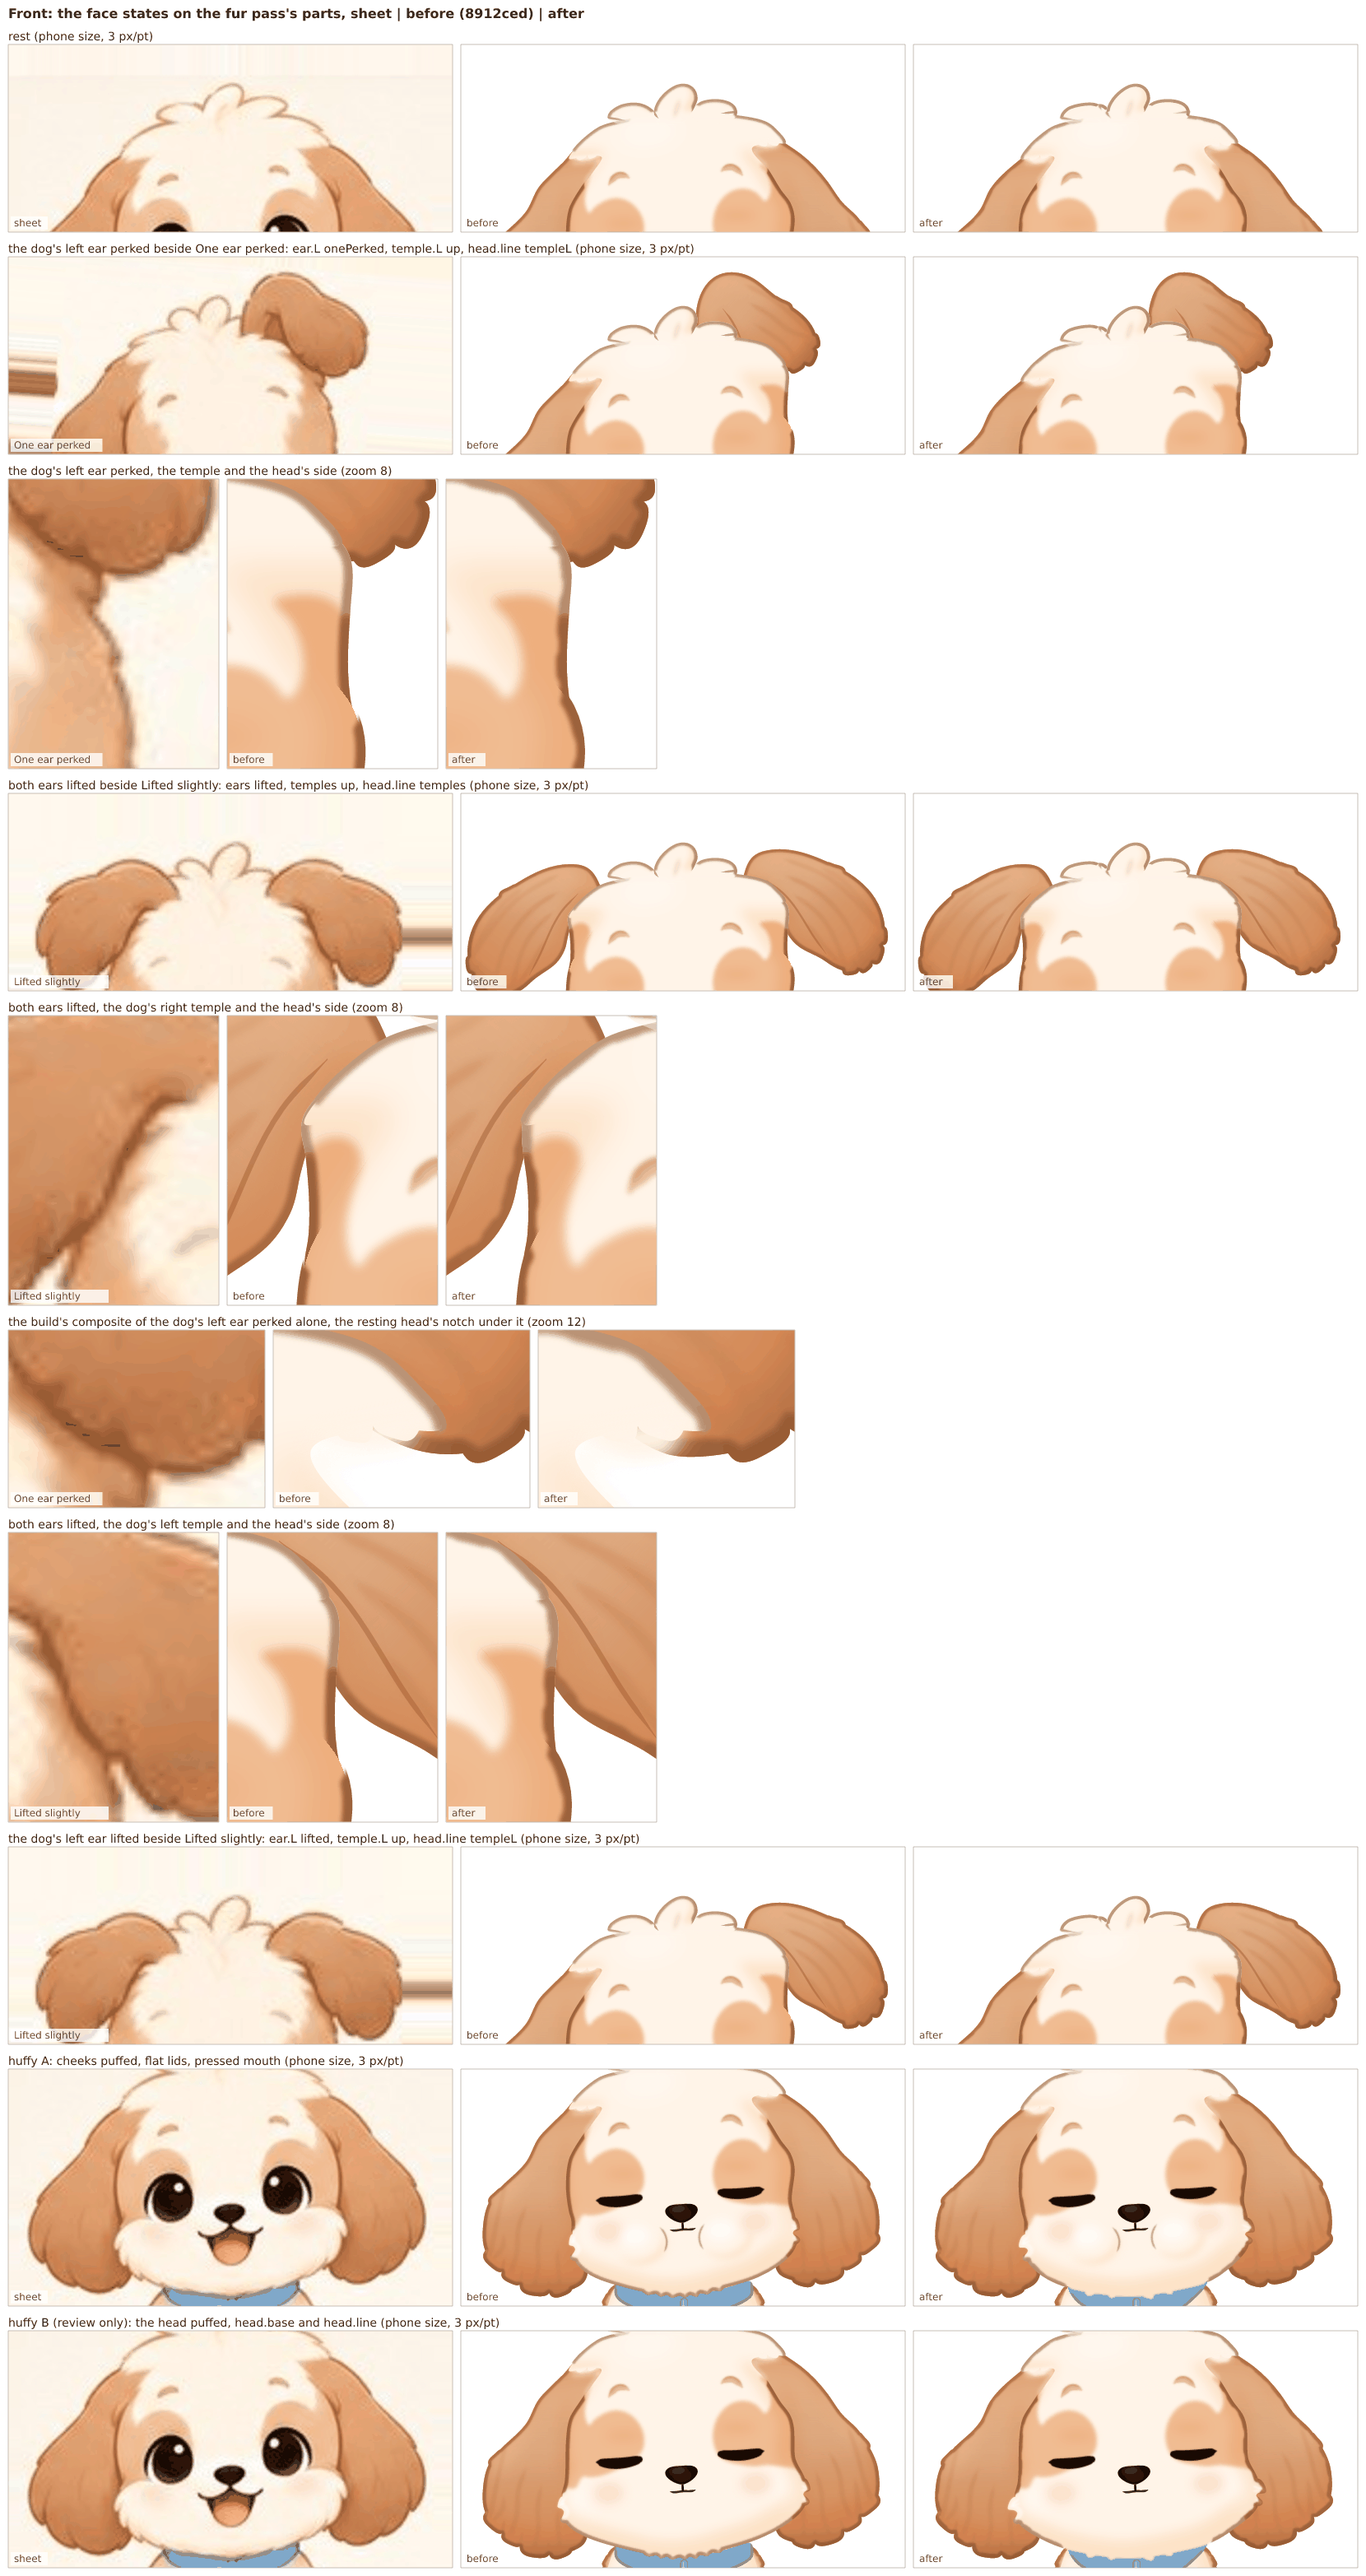
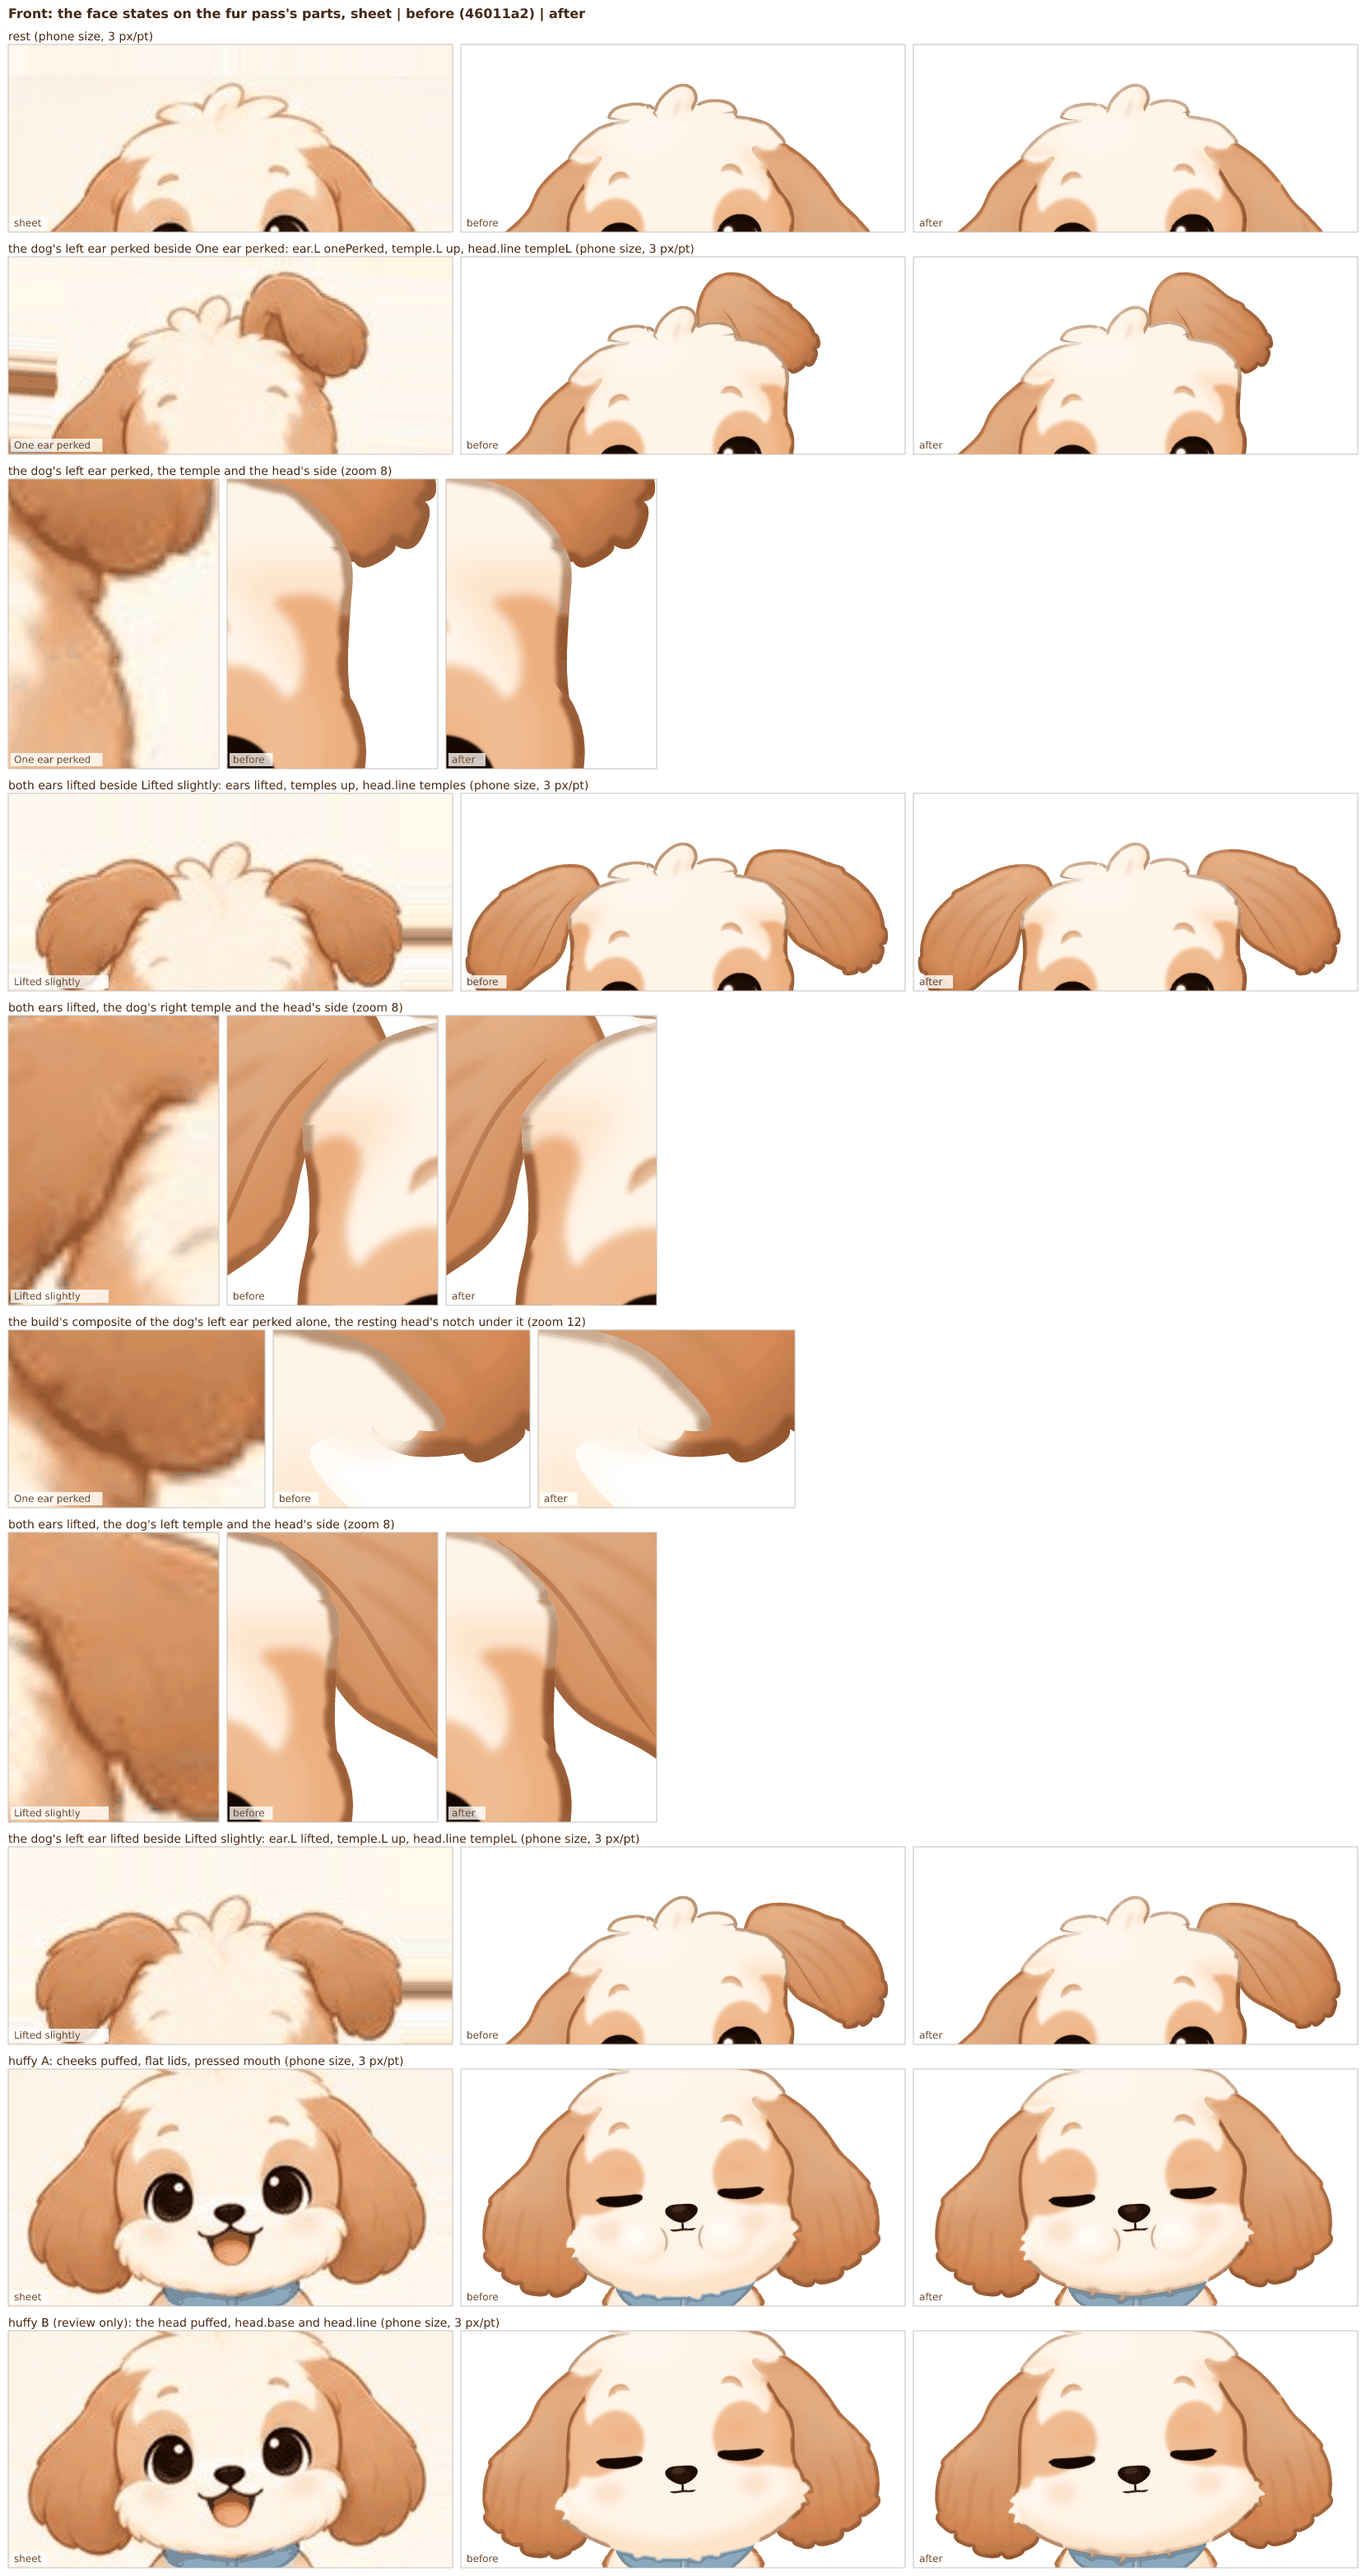
The front's joins sheet: sheet | 46011a2 as it drew | now, with the whole dog at phone size
The before column is drawn from 46011a2's own tree (its front.ts on its own kit, unpacked from an
archive of the commit), not its front.ts on today's kit. Rows added: the whole dog and the chin at
phone size, the slot's bar, the left collar end. The two closest zooms come down to 14 and 12 px
per pt (22 and 18 took over 10 minutes each).

Claude-Session: https://claude.ai/code/session_01MXaHnDR5xXHB9UwvyUL8cb

diff --git a/qa/phase3/fur/front/joins.ts b/qa/phase3/fur/front/joins.ts
@@ -1,7 +1,7 @@
-// The front's joins sheet for the fur pass (docs/phase3-fur-plan.md, the front lane; DECISIONS 220 to 227, 267 to 271):
-// one row per join the audit names (qa/phase3/audit/defects.json, view "front"), each the sheet's crop | the base (8912ced,
-// before the fur kit's second round) | today's drawing, at one scale and 3 to 4 times the phone's 3 px/pt, labelled, a
-// row that names a box on master.hero.main showing the hero's crop of the same place first; and the face states drawn
+// The front's joins sheet for the fur pass (docs/phase3-fur-plan.md, the front lane; DECISIONS 220 to 227, 267 to 271,
+// 290 to 293): one row per join the audit names (qa/phase3/audit/defects.json, view "front"), each the sheet's crop | the
+// base (46011a2, the second round's merge, as it drew) | today's drawing, at one scale and 3 to 4 times the phone's 3
+// px/pt, labelled, a row that names a box on master.hero.main showing the hero's crop of the same place first; and the face states drawn
 // on the same parts (the raised ears and their temples, huffy's puffed head), before and after, each raised ear beside
 // its own panel (One ear perked levelled and scaled by its brows, DECISIONS 133; Lifted slightly by its record's scale
 // with its head's top on the model's, 146), the rest beside the turnaround crop. Each region is composited as the
@@ -12,7 +12,7 @@
 // The committed joins.png and states.png are its output reduced to 256 colours (PIL's median cut, no dither), 1 MB
 // and 0.5 MB instead of 3.4 and 1.3, so they open quickly on a phone.
 import { execFileSync } from "node:child_process";
-import { mkdtempSync, readFileSync, writeFileSync } from "node:fs";
+import { mkdtempSync, readFileSync, symlinkSync, writeFileSync } from "node:fs";
 import { tmpdir } from "node:os";
 import { dirname, join, resolve } from "node:path";
 import { fileURLToPath, pathToFileURL } from "node:url";
@@ -25,7 +25,7 @@ import { composite } from "../../../../characters/draw/test/composite.ts";
 
 const here = dirname(fileURLToPath(import.meta.url));
 const repo = resolve(here, "../../../..");
-const BASE = "8912ced";
+const BASE = "46011a2";
 const { values: args } = parseArgs({ options: { out: { type: "string" }, only: { type: "string" } } });
 const out = resolve(args.out ?? here);
 
@@ -41,14 +41,18 @@ interface FrontModule {
 }
 type Box = [number, number, number, number];
 
-/** The front view as the base drew it: its source at fbbe6d3, its relative imports pointing at today's files (the recipes draw a view unchanged until it opts in, DECISIONS 210 to 219). */
+/**
+ * The front view as the base drew it: the base's own tree of the dog's source, its kit and its model (an archive of the
+ * base commit unpacked into a temporary folder, with this checkout's node_modules), so the before column is the base's
+ * drawing and not its front.ts on today's kit, which changes what a view draws though the view opts in to nothing (the
+ * third round's topknot hooks).
+ */
 async function baseFront(): Promise<FrontModule> {
-  const file = join(repo, "characters/dog/src/views/front.ts");
-  const src = execFileSync("git", ["show", `${BASE}:characters/dog/src/views/front.ts`], { cwd: repo, encoding: "utf8" })
-    .replace(/from "(\.\.?\/[^"]+)"/g, (_m, spec: string) => `from "${pathToFileURL(resolve(dirname(file), spec)).href}"`);
-  const path = join(mkdtempSync(join(tmpdir(), "front-base-")), "front.ts");
-  writeFileSync(path, src);
-  return (await import(pathToFileURL(path).href)) as FrontModule;
+  const dir = mkdtempSync(join(tmpdir(), "front-base-"));
+  const tar = execFileSync("git", ["archive", BASE, "characters/draw", "characters/dog/src", "characters/dog/model.json", "runtime-web/src", "package.json"], { cwd: repo, maxBuffer: 1 << 28 });
+  execFileSync("tar", ["-x", "-C", dir], { input: tar });
+  symlinkSync(join(repo, "node_modules"), join(dir, "node_modules"));
+  return (await import(pathToFileURL(join(dir, "characters/dog/src/views/front.ts")).href)) as FrontModule;
 }
 
 const rig = JSON.parse(readFileSync(join(repo, "characters/dog/src/rig.json"), "utf8")) as Rig;
@@ -62,6 +66,10 @@ function layersOf(drawn: Drawn[], states: Record<string, string>): { order: stri
   for (const d of drawn) if (!d.state && !pieces.has(d.part)) pieces.set(d.part, d.piece);
   // A part's rest drawing is its default state's where it has no plain one (the eyes' "open", the mouth's).
   for (const d of drawn) if (d.state && !pieces.has(d.part) && rig.parts.find((p) => p.name === d.part)?.regions["front"] === `${d.part}/front:${d.state}`) pieces.set(d.part, d.piece);
+  // The eyes and the mouth, which the rig gives no front region (the face library draws them), take the first state the
+  // view draws for them, its rest's (the eyes' and the mouth's "open", as the still draws them), so a region at phone
+  // size shows the face as the founder sees it.
+  for (const d of drawn) if (d.state && !pieces.has(d.part) && rig.parts.find((p) => p.name === d.part)?.regions["front"] === undefined) pieces.set(d.part, d.piece);
   for (const [part, state] of Object.entries(states)) {
     const s = drawn.find((d) => d.part === part && d.state === state);
     if (!s) throw new Error(`joins: no ${part}:${state} drawing`);
@@ -267,6 +275,7 @@ function write(title: string, rows: { row: Row; columns: Column[] }[], file: str
 
 /** Each join the audit names in front (defects.json #1 to #15), the dog's right side on the viewer's left. */
 const JOINS: Row[] = [
+  { label: "the whole dog at phone size (3 px/pt)", box: [-90, -172, 180, 176], zoom: 3 },
   { label: "#1, #4 the crown over the dog's right ear's root (zoom 10)", box: [-58, -152, 32, 26], zoom: 10 },
   { label: "#1, #4 the crown over the dog's left ear's root (zoom 10)", box: [24, -158, 30, 26], zoom: 10 },
   { label: "#4 the topknot, whole, beside the hero's (zoom 8)", box: [-34, -168, 60, 22], zoom: 8, hero: [100, 0, 140, 51.3] },
@@ -276,6 +285,7 @@ const JOINS: Row[] = [
   { label: "#6 the dog's left head patch: its hood, the cream strip and the root's tan (zoom 8)", box: [12, -144, 38, 36], zoom: 8 },
   { label: "#2 the dog's right cheek over its ear (zoom 10)", box: [-60, -108, 28, 46], zoom: 10 },
   { label: "#2 the dog's left cheek over its ear (zoom 10)", box: [32, -110, 28, 46], zoom: 10 },
+  { label: "#3 the chin over the collar at phone size, beside the hero's (3 px/pt)", box: [-56, -104, 112, 60], zoom: 3, hero: [128, 125, 162, 86.8] },
   { label: "#3 the chin over the collar, whole, beside the hero's (zoom 8)", box: [-34, -80, 68, 26], zoom: 8, hero: [92, 168, 176, 67.3] },
   { label: "#3, #7 the chin over the collar, the dog's right half (zoom 10)", box: [-44, -76, 40, 22], zoom: 10 },
   { label: "#3, #7 the chin over the collar, the dog's left half (zoom 10)", box: [4, -78, 40, 22], zoom: 10 },
@@ -284,6 +294,8 @@ const JOINS: Row[] = [
   { label: "#8, #9 the chest under the dog's right collar end (zoom 10)", box: [-40, -66, 40, 30], zoom: 10 },
   { label: "#8, #9 the chest under the dog's left collar end (zoom 10)", box: [0, -66, 40, 30], zoom: 10 },
   { label: "#10 the chest's V and the legs' inner edges (zoom 10)", box: [-16, -42, 32, 42], zoom: 10 },
+  { label: "#14 the slot between the front paws and its bar (zoom 14)", box: [-8, -14, 16, 15], zoom: 14 },
+  { label: "#7 the dog's left collar end under the jaw (zoom 12)", box: [18, -70, 18, 14], zoom: 12 },
   { label: "#12, #13 the dog's right elbow, leg edge and haunch (zoom 10)", box: [-56, -56, 30, 46], zoom: 10 },
   { label: "#12, #13 the dog's left elbow, leg edge and haunch (zoom 10)", box: [26, -56, 30, 46], zoom: 10 },
   { label: "#11, #14 the paws, whole, beside the hero's (zoom 6)", box: [-52, -24, 104, 26], zoom: 6, hero: [70, 318, 225, 56.3] },
